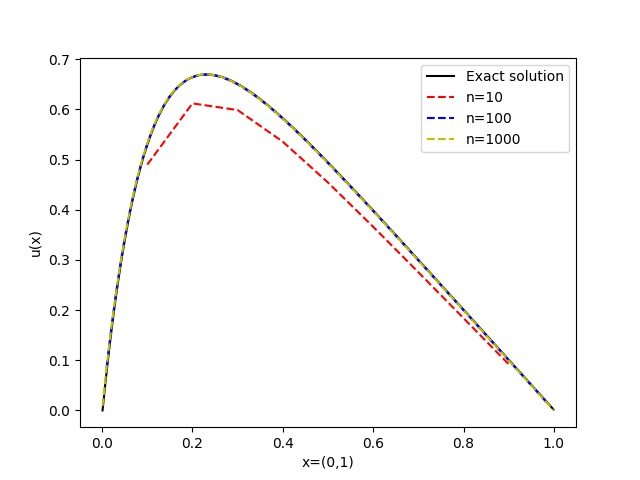
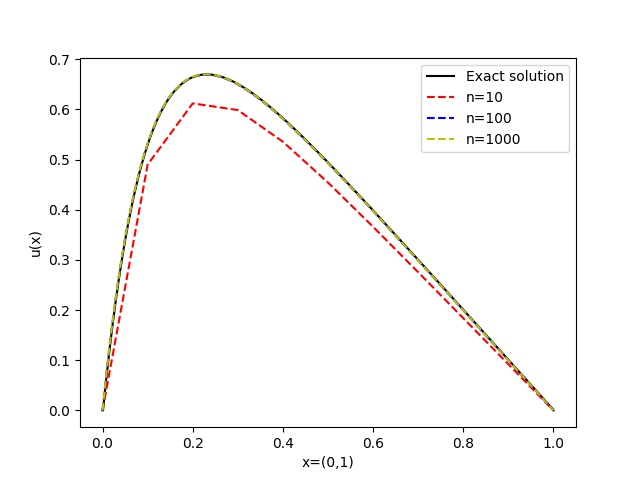
Fikset plottekode i b) og e)

diff --git a/Project1/1_b/Plotte_code.py b/Project1/1_b/Plotte_code.py
@@ -2,30 +2,42 @@ import matplotlib.pyplot as plt
 import numpy as np
 
 data = open('valn1.txt', 'r')
-y_value = []
-x_value = []
+y_value = [0]
+x_value = [0]
 
 data1 = open('valn2.txt', 'r')
-y1_value = []
-x1_value = []
+y1_value = [0]
+x1_value = [0]
 
 data2 = open('valn3.txt', 'r')
-y2_value = []
-x2_value = []
-ex_vals = []
+y2_value = [0]
+x2_value = [0]
+ex_vals = [0]
 
 for line in data:
-    y_value.append(float(line.split(' ')[0]))
-    x_value.append(float(line.split(' ')[1]))
+    l1, l2, l3 = line.split(' ')
+    y_value.append(float(l1))
+    x_value.append(float(l2))
 
 for line in data1:
-    y1_value.append(float(line.split(' ')[0]))
-    x1_value.append(float(line.split(' ')[1]))
+    l1, l2, l3 = line.split(' ')
+    y1_value.append(float(l1))
+    x1_value.append(float(l2))
 
 for line in data2:
-    y2_value.append(float(line.split(' ')[0]))
-    x2_value.append(float(line.split(' ')[1]))
-    ex_vals.append(float(line.split(" ")[2]))
+    l1, l2, l3 = line.split(' ')
+    y2_value.append(float(l1))
+    x2_value.append(float(l2))
+    ex_vals.append(float(l3))
+
+# Hardkoder inn 0 og 1 for x
+x_value.append(1)
+y_value.append(0)
+y1_value.append(0)
+x1_value.append(1)
+y2_value.append(0)
+x2_value.append(1)
+ex_vals.append(0)
 
 plt.plot(x2_value, ex_vals, "k-",label="Exact solution")
 plt.plot(x_value,y_value,"r--", label="n=10")
